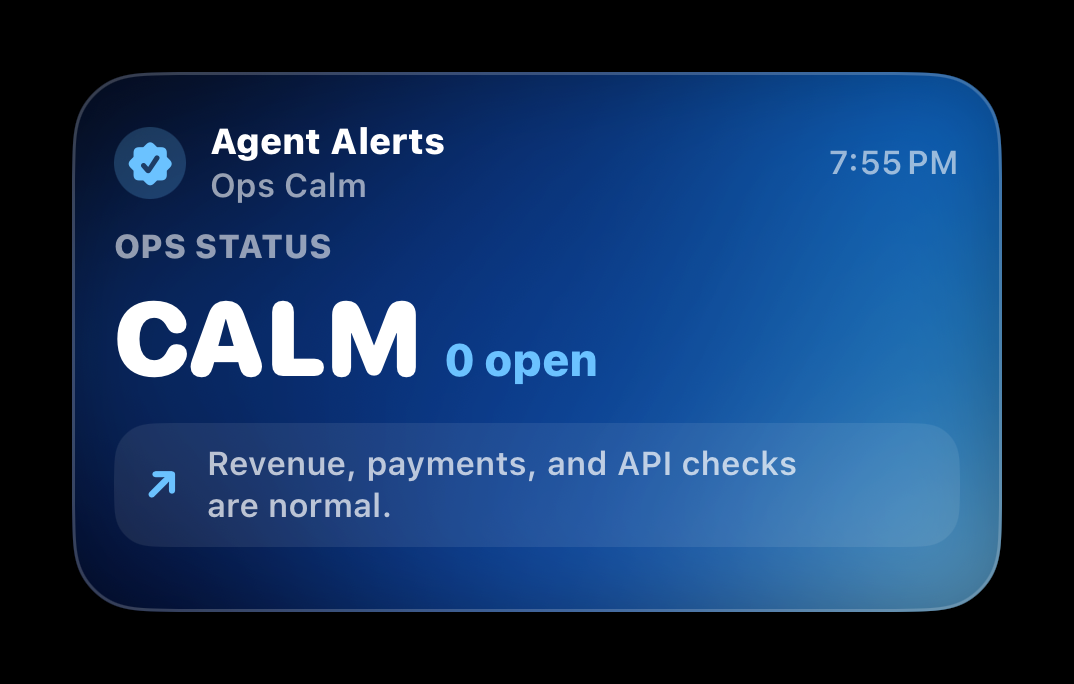
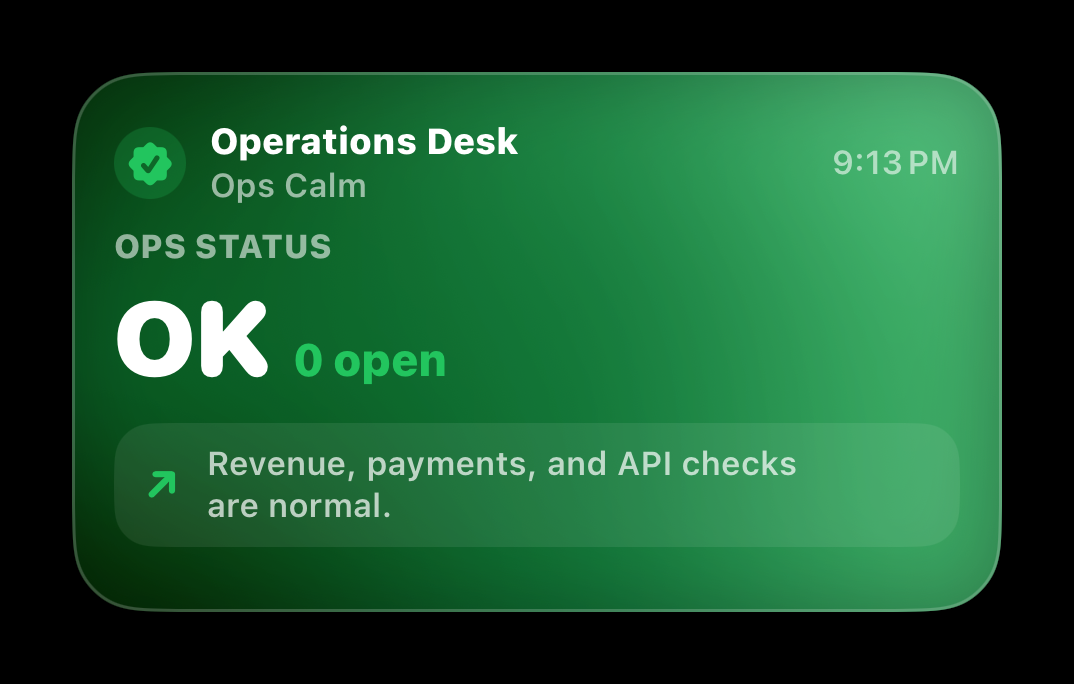
better colors

diff --git a/README.md b/README.md
@@ -57,17 +57,17 @@ them.
 
 ## Live Activity Examples
 
-| Ops Calm | Release Readiness | Mixpanel Funnel |
+| Ops Calm | Release Readiness | Conversion Trend |
 | --- | --- | --- |
-| ![Ops Calm](assets/live-activity-previews/live-activity-ops-calm.png) | ![Release Readiness](assets/live-activity-previews/live-activity-release-readiness.png) | ![Mixpanel Funnel](assets/live-activity-previews/live-activity-mixpanel-funnel.png) |
+| ![Ops Calm](assets/live-activity-previews/live-activity-ops-calm.png) | ![Release Readiness](assets/live-activity-previews/live-activity-release-readiness.png) | ![Conversion Trend](assets/live-activity-previews/live-activity-mixpanel-funnel.png) |
 
-| App Store Analytics | Supabase Errors | GCloud Incident |
+| Storefront Trend | Service Errors | Traffic Incident |
 | --- | --- | --- |
-| ![App Store Analytics](assets/live-activity-previews/live-activity-app-store-analytics.png) | ![Supabase Errors](assets/live-activity-previews/live-activity-supabase-errors.png) | ![GCloud Incident](assets/live-activity-previews/live-activity-gcloud-incident.png) |
+| ![Storefront Trend](assets/live-activity-previews/live-activity-app-store-analytics.png) | ![Service Errors](assets/live-activity-previews/live-activity-supabase-errors.png) | ![Traffic Incident](assets/live-activity-previews/live-activity-gcloud-incident.png) |
 
-| Codex Agent Progress | Builder Launch Console | Builder Compact Console |
+| Build Progress | Launch Console | Compact Console |
 | --- | --- | --- |
-| ![Codex Agent Progress](assets/live-activity-previews/live-activity-codex-agent-progress.png) | ![Builder Launch Console](assets/live-activity-previews/live-activity-builder-launch-console.png) | ![Builder Compact Console](assets/live-activity-previews/live-activity-builder-compact-console.png) |
+| ![Build Progress](assets/live-activity-previews/live-activity-codex-agent-progress.png) | ![Launch Console](assets/live-activity-previews/live-activity-builder-launch-console.png) | ![Compact Console](assets/live-activity-previews/live-activity-builder-compact-console.png) |
 
 ## More Info
 
